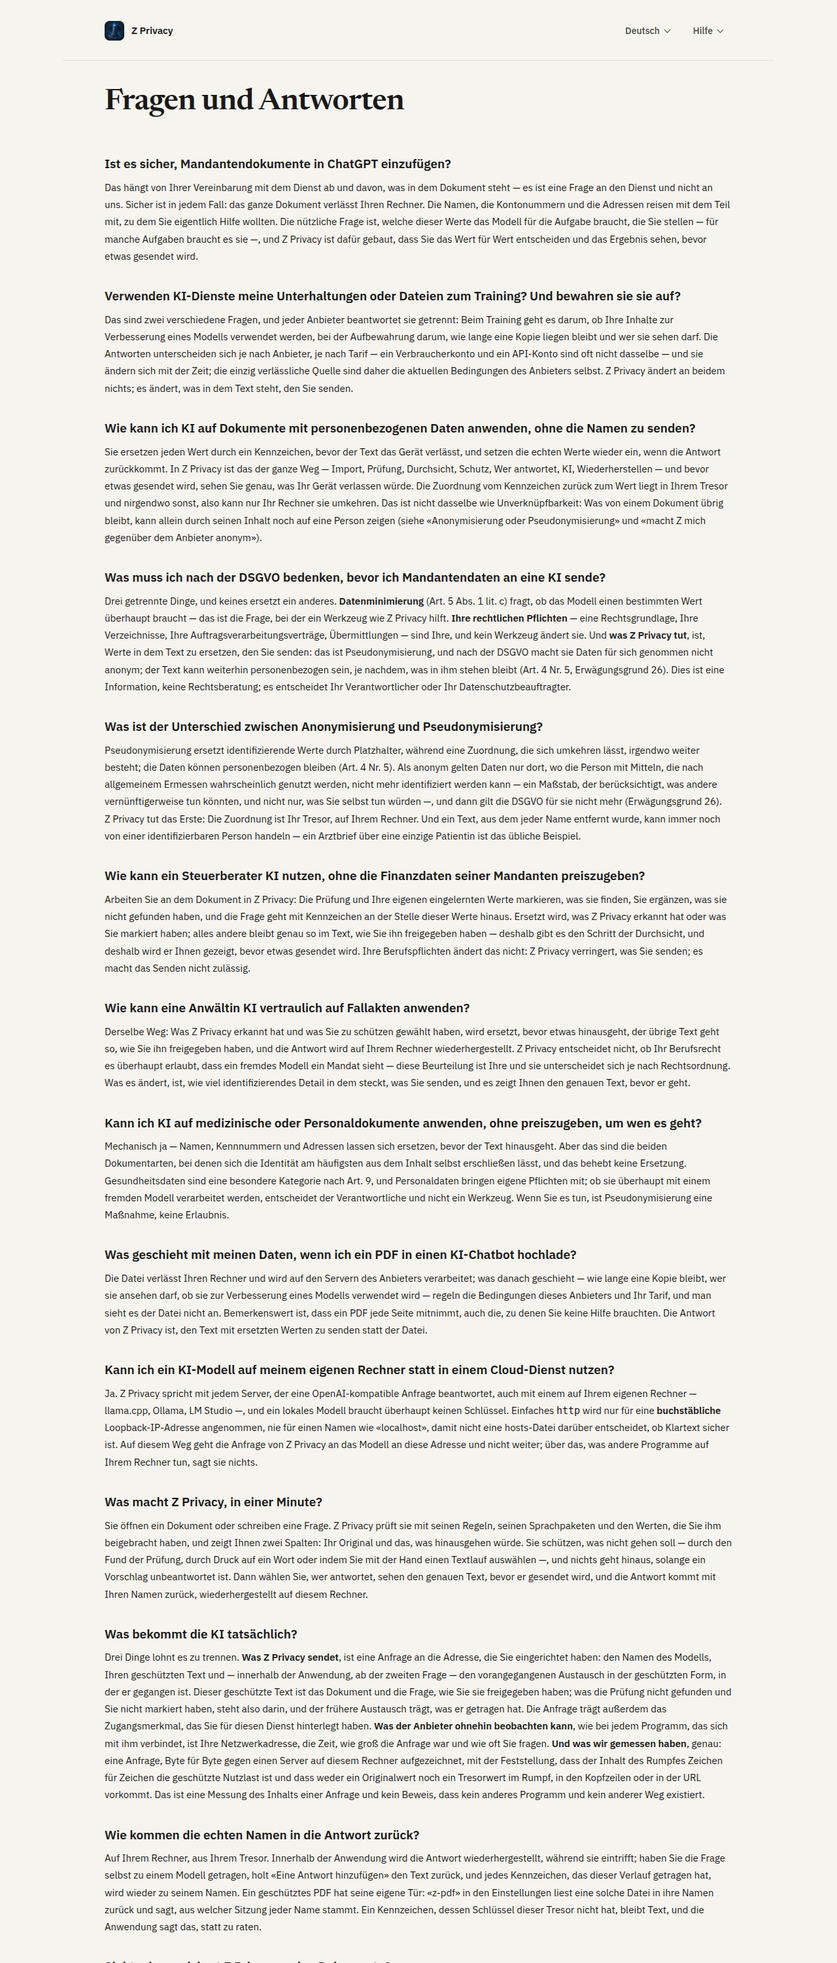
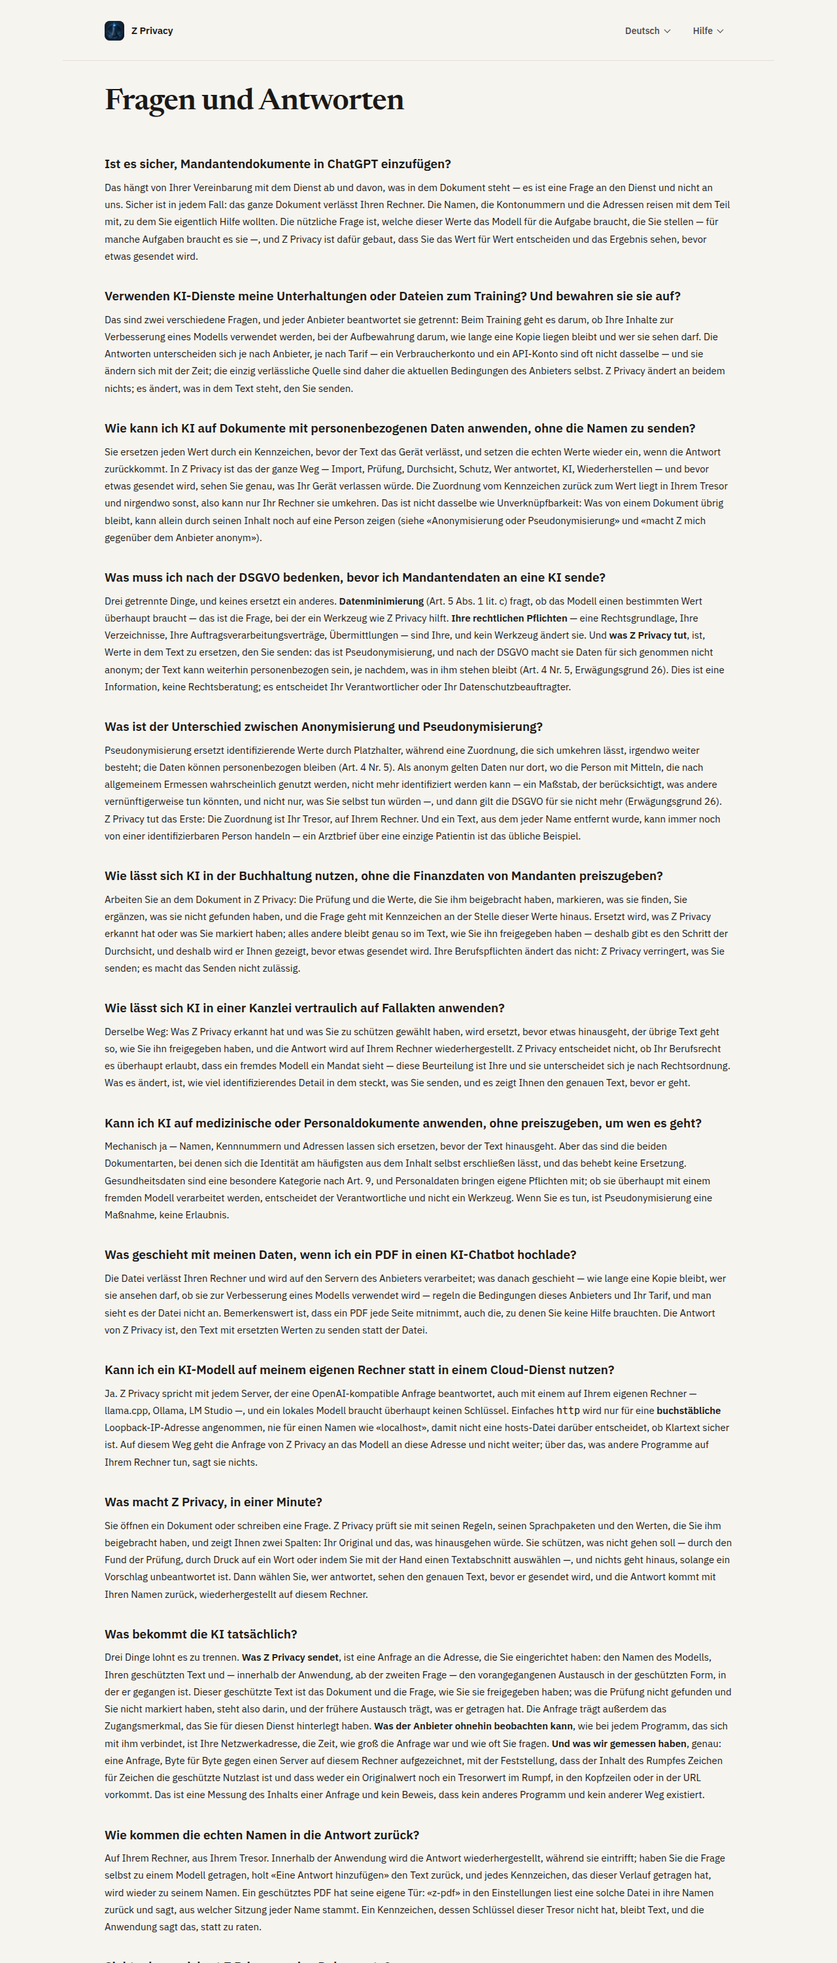
118 · the lead's German rulings: «Prüfung» is the scan, a gate is a Gate
He read the German in full against the app's own .arb and ruled. Four fixes,
his words, and the Arabic headings untouched while the owner decides them.

1 · ONE WORD, TWO MEANINGS — the same fault as the Arabic «تعمية», caught a
second time in a second language. «Prüfung» was the SCAN in Q3/Q6/Q11/Q12/Q19,
matching the app's «Wird geprüft…», and the GATE in Q23. Q23 now says «das
**Gate**», glossed at its first mention as «eine Prüfregel, die den Quelltext
liest». «Formprüfung» stays, because the English names a shape check
separately too.

2 · «eingelernt» → «beigebracht», the app's own word («Werte, die ich
beigebracht habe»). ONE occurrence, not two — I looked for the second and
there is none: Q11, Q15 and Q19 already said «beigebracht». Said here rather
than quietly fixing one and reporting two.

And a note on how that one was fixed: a bare swap gives «Ihre eigenen
beigebrachten Werte», which no one writes. It reads «die Werte, die Sie ihm
beigebracht haben», which is the app's own shape. Two words beyond the
ruling, and his to undo.

3 · Q11 «Textlauf» → «Textabschnitt».
4 · The Q6 and Q7 headings are his, verbatim: the gender is gone and the
accountant is no longer narrowed to a tax adviser. Their ANSWERS were checked
for the same fault and have none — both address «Sie» throughout and name no
profession in a gendered noun.

AND A GENERATOR FAULT THE RULINGS EXPOSED. The page builder held its own copy
[…]

Changed region(s): [[0.125, 0.434, 0.875, 0.527]]

diff --git a/site/de/faq/index.html b/site/de/faq/index.html
@@ -73,15 +73,15 @@
     },
     {
       "@type": "Question",
-      "name": "Wie kann ein Steuerberater KI nutzen, ohne die Finanzdaten seiner Mandanten preiszugeben?",
+      "name": "Wie lässt sich KI in der Buchhaltung nutzen, ohne die Finanzdaten von Mandanten preiszugeben?",
       "acceptedAnswer": {
         "@type": "Answer",
-        "text": "Arbeiten Sie an dem Dokument in Z Privacy: Die Prüfung und Ihre eigenen eingelernten Werte markieren, was sie finden, Sie ergänzen, was sie nicht gefunden haben, und die Frage geht mit Kennzeichen an der Stelle dieser Werte hinaus. Ersetzt wird, was Z Privacy erkannt hat oder was Sie markiert haben; alles andere bleibt genau so im Text, wie Sie ihn freigegeben haben — deshalb gibt es den Schritt der Durchsicht, und deshalb wird er Ihnen gezeigt, bevor etwas gesendet wird. Ihre Berufspflichten ändert das nicht: Z Privacy verringert, was Sie senden; es macht das Senden nicht zulässig."
+        "text": "Arbeiten Sie an dem Dokument in Z Privacy: Die Prüfung und die Werte, die Sie ihm beigebracht haben, markieren, was sie finden, Sie ergänzen, was sie nicht gefunden haben, und die Frage geht mit Kennzeichen an der Stelle dieser Werte hinaus. Ersetzt wird, was Z Privacy erkannt hat oder was Sie markiert haben; alles andere bleibt genau so im Text, wie Sie ihn freigegeben haben — deshalb gibt es den Schritt der Durchsicht, und deshalb wird er Ihnen gezeigt, bevor etwas gesendet wird. Ihre Berufspflichten ändert das nicht: Z Privacy verringert, was Sie senden; es macht das Senden nicht zulässig."
       }
     },
     {
       "@type": "Question",
-      "name": "Wie kann eine Anwältin KI vertraulich auf Fallakten anwenden?",
+      "name": "Wie lässt sich KI in einer Kanzlei vertraulich auf Fallakten anwenden?",
       "acceptedAnswer": {
         "@type": "Answer",
         "text": "Derselbe Weg: Was Z Privacy erkannt hat und was Sie zu schützen gewählt haben, wird ersetzt, bevor etwas hinausgeht, der übrige Text geht so, wie Sie ihn freigegeben haben, und die Antwort wird auf Ihrem Rechner wiederhergestellt. Z Privacy entscheidet nicht, ob Ihr Berufsrecht es überhaupt erlaubt, dass ein fremdes Modell ein Mandat sieht — diese Beurteilung ist Ihre und sie unterscheidet sich je nach Rechtsordnung. Was es ändert, ist, wie viel identifizierendes Detail in dem steckt, was Sie senden, und es zeigt Ihnen den genauen Text, bevor er geht."
@@ -116,7 +116,7 @@
       "name": "Was macht Z Privacy, in einer Minute?",
       "acceptedAnswer": {
         "@type": "Answer",
-        "text": "Sie öffnen ein Dokument oder schreiben eine Frage. Z Privacy prüft sie mit seinen Regeln, seinen Sprachpaketen und den Werten, die Sie ihm beigebracht haben, und zeigt Ihnen zwei Spalten: Ihr Original und das, was hinausgehen würde. Sie schützen, was nicht gehen soll — durch den Fund der Prüfung, durch Druck auf ein Wort oder indem Sie mit der Hand einen Textlauf auswählen —, und nichts geht hinaus, solange ein Vorschlag unbeantwortet ist. Dann wählen Sie, wer antwortet, sehen den genauen Text, bevor er gesendet wird, und die Antwort kommt mit Ihren Namen zurück, wiederhergestellt auf diesem Rechner."
+        "text": "Sie öffnen ein Dokument oder schreiben eine Frage. Z Privacy prüft sie mit seinen Regeln, seinen Sprachpaketen und den Werten, die Sie ihm beigebracht haben, und zeigt Ihnen zwei Spalten: Ihr Original und das, was hinausgehen würde. Sie schützen, was nicht gehen soll — durch den Fund der Prüfung, durch Druck auf ein Wort oder indem Sie mit der Hand einen Textabschnitt auswählen —, und nichts geht hinaus, solange ein Vorschlag unbeantwortet ist. Dann wählen Sie, wer antwortet, sehen den genauen Text, bevor er gesendet wird, und die Antwort kommt mit Ihren Namen zurück, wiederhergestellt auf diesem Rechner."
       }
     },
     {
@@ -212,7 +212,7 @@
       "name": "Wie kann ich die Aussagen von Z Privacy selbst prüfen?",
       "acceptedAnswer": {
         "@type": "Answer",
-        "text": "docs/CLAIMS.md führt jede Aussage mit denselben vier Zeilen auf: den Satz, den wir tatsächlich zeigen, was er nicht abdeckt, den Test oder die Prüfung, die ihn belegt, und den Befehl, den Sie selbst ausführen. Es lohnt sich zu wissen, was diese zwei Arten von Beleg sind: Ein Test führt den Code dieses Produkts aus und misst, was er tut, während eine Prüfung den Quelltext liest und seine Form misst — dass es einen Netzwerk-Client gibt, dass die Oberfläche keinen Socket öffnen kann, dass jede Tür einem Gesetz folgt. Eine Formprüfung zeigt, dass der Code die Bedingung erfüllt, die sie prüft; sie ist keine Aufzeichnung des laufenden Programms, und keine Zahl von ihnen ergibt zusammen einen Netzwerkmitschnitt, eine Installation oder ein Sicherheitsaudit — deshalb tragen manche Aussagen in dieser Datei das Wort «unbelegt», statt aus ihr entfernt zu werden."
+        "text": "docs/CLAIMS.md führt jede Aussage mit denselben vier Zeilen auf: den Satz, den wir tatsächlich zeigen, was er nicht abdeckt, den Test oder das Gate — eine Prüfregel, die den Quelltext liest —, das ihn belegt, und den Befehl, den Sie selbst ausführen. Es lohnt sich zu wissen, was diese zwei Arten von Beleg sind: Ein Test führt den Code dieses Produkts aus und misst, was er tut, während das Gate den Quelltext liest und seine Form misst — dass es einen Netzwerk-Client gibt, dass die Oberfläche keinen Socket öffnen kann, dass jede Tür einem Gesetz folgt. Eine Formprüfung zeigt, dass der Code die Bedingung erfüllt, die sie prüft; sie ist keine Aufzeichnung des laufenden Programms, und keine Zahl von ihnen ergibt zusammen einen Netzwerkmitschnitt, eine Installation oder ein Sicherheitsaudit — deshalb tragen manche Aussagen in dieser Datei das Wort «unbelegt», statt aus ihr entfernt zu werden."
       }
     },
     {
@@ -272,11 +272,11 @@
     <p class="a">Pseudonymisierung ersetzt identifizierende Werte durch Platzhalter, während eine Zuordnung, die sich umkehren lässt, irgendwo weiter besteht; die Daten können personenbezogen bleiben (Art. 4 Nr. 5). Als anonym gelten Daten nur dort, wo die Person mit Mitteln, die nach allgemeinem Ermessen wahrscheinlich genutzt werden, nicht mehr identifiziert werden kann — ein Maßstab, der berücksichtigt, was andere vernünftigerweise tun könnten, und nicht nur, was Sie selbst tun würden —, und dann gilt die DSGVO für sie nicht mehr (Erwägungsgrund 26). Z&nbsp;Privacy tut das Erste: Die Zuordnung ist Ihr Tresor, auf Ihrem Rechner. Und ein Text, aus dem jeder Name entfernt wurde, kann immer noch von einer identifizierbaren Person handeln — ein Arztbrief über eine einzige Patientin ist das übliche Beispiel.</p>
   </section>
   <section aria-labelledby="q6">
-    <h2 class="q" id="q6">Wie kann ein Steuerberater KI nutzen, ohne die Finanzdaten seiner Mandanten preiszugeben?</h2>
-    <p class="a">Arbeiten Sie an dem Dokument in Z&nbsp;Privacy: Die Prüfung und Ihre eigenen eingelernten Werte markieren, was sie finden, Sie ergänzen, was sie nicht gefunden haben, und die Frage geht mit Kennzeichen an der Stelle dieser Werte hinaus. Ersetzt wird, was Z&nbsp;Privacy erkannt hat oder was Sie markiert haben; alles andere bleibt genau so im Text, wie Sie ihn freigegeben haben — deshalb gibt es den Schritt der Durchsicht, und deshalb wird er Ihnen gezeigt, bevor etwas gesendet wird. Ihre Berufspflichten ändert das nicht: Z&nbsp;Privacy verringert, was Sie senden; es macht das Senden nicht zulässig.</p>
+    <h2 class="q" id="q6">Wie lässt sich KI in der Buchhaltung nutzen, ohne die Finanzdaten von Mandanten preiszugeben?</h2>
+    <p class="a">Arbeiten Sie an dem Dokument in Z&nbsp;Privacy: Die Prüfung und die Werte, die Sie ihm beigebracht haben, markieren, was sie finden, Sie ergänzen, was sie nicht gefunden haben, und die Frage geht mit Kennzeichen an der Stelle dieser Werte hinaus. Ersetzt wird, was Z&nbsp;Privacy erkannt hat oder was Sie markiert haben; alles andere bleibt genau so im Text, wie Sie ihn freigegeben haben — deshalb gibt es den Schritt der Durchsicht, und deshalb wird er Ihnen gezeigt, bevor etwas gesendet wird. Ihre Berufspflichten ändert das nicht: Z&nbsp;Privacy verringert, was Sie senden; es macht das Senden nicht zulässig.</p>
   </section>
   <section aria-labelledby="q7">
-    <h2 class="q" id="q7">Wie kann eine Anwältin KI vertraulich auf Fallakten anwenden?</h2>
+    <h2 class="q" id="q7">Wie lässt sich KI in einer Kanzlei vertraulich auf Fallakten anwenden?</h2>
     <p class="a">Derselbe Weg: Was Z&nbsp;Privacy erkannt hat und was Sie zu schützen gewählt haben, wird ersetzt, bevor etwas hinausgeht, der übrige Text geht so, wie Sie ihn freigegeben haben, und die Antwort wird auf Ihrem Rechner wiederhergestellt. Z&nbsp;Privacy entscheidet nicht, ob Ihr Berufsrecht es überhaupt erlaubt, dass ein fremdes Modell ein Mandat sieht — diese Beurteilung ist Ihre und sie unterscheidet sich je nach Rechtsordnung. Was es ändert, ist, wie viel identifizierendes Detail in dem steckt, was Sie senden, und es zeigt Ihnen den genauen Text, bevor er geht.</p>
   </section>
   <section aria-labelledby="q8">
@@ -293,7 +293,7 @@
   </section>
   <section aria-labelledby="q11">
     <h2 class="q" id="q11">Was macht Z&nbsp;Privacy, in einer Minute?</h2>
-    <p class="a">Sie öffnen ein Dokument oder schreiben eine Frage. Z&nbsp;Privacy prüft sie mit seinen Regeln, seinen Sprachpaketen und den Werten, die Sie ihm beigebracht haben, und zeigt Ihnen zwei Spalten: Ihr Original und das, was hinausgehen würde. Sie schützen, was nicht gehen soll — durch den Fund der Prüfung, durch Druck auf ein Wort oder indem Sie mit der Hand einen Textlauf auswählen —, und nichts geht hinaus, solange ein Vorschlag unbeantwortet ist. Dann wählen Sie, wer antwortet, sehen den genauen Text, bevor er gesendet wird, und die Antwort kommt mit Ihren Namen zurück, wiederhergestellt auf diesem Rechner.</p>
+    <p class="a">Sie öffnen ein Dokument oder schreiben eine Frage. Z&nbsp;Privacy prüft sie mit seinen Regeln, seinen Sprachpaketen und den Werten, die Sie ihm beigebracht haben, und zeigt Ihnen zwei Spalten: Ihr Original und das, was hinausgehen würde. Sie schützen, was nicht gehen soll — durch den Fund der Prüfung, durch Druck auf ein Wort oder indem Sie mit der Hand einen Textabschnitt auswählen —, und nichts geht hinaus, solange ein Vorschlag unbeantwortet ist. Dann wählen Sie, wer antwortet, sehen den genauen Text, bevor er gesendet wird, und die Antwort kommt mit Ihren Namen zurück, wiederhergestellt auf diesem Rechner.</p>
   </section>
   <section aria-labelledby="q12">
     <h2 class="q" id="q12">Was bekommt die KI tatsächlich?</h2>
@@ -341,7 +341,7 @@
   </section>
   <section aria-labelledby="q23">
     <h2 class="q" id="q23">Wie kann ich die Aussagen von Z&nbsp;Privacy selbst prüfen?</h2>
-    <p class="a"><code>docs/CLAIMS.md</code> führt jede Aussage mit denselben vier Zeilen auf: den Satz, den wir tatsächlich zeigen, was er <b>nicht</b> abdeckt, den Test oder die Prüfung, die ihn belegt, und den Befehl, den Sie selbst ausführen. Es lohnt sich zu wissen, was diese zwei Arten von Beleg sind: Ein <b>Test</b> führt den Code dieses Produkts aus und misst, was er tut, während eine <b>Prüfung</b> den Quelltext liest und seine Form misst — dass es einen Netzwerk-Client gibt, dass die Oberfläche keinen Socket öffnen kann, dass jede Tür einem Gesetz folgt. Eine Formprüfung zeigt, dass der Code die Bedingung erfüllt, die sie prüft; sie ist keine Aufzeichnung des laufenden Programms, und keine Zahl von ihnen ergibt zusammen einen Netzwerkmitschnitt, eine Installation oder ein Sicherheitsaudit — deshalb tragen manche Aussagen in dieser Datei das Wort «unbelegt», statt aus ihr entfernt zu werden.</p>
+    <p class="a"><code>docs/CLAIMS.md</code> führt jede Aussage mit denselben vier Zeilen auf: den Satz, den wir tatsächlich zeigen, was er <b>nicht</b> abdeckt, den Test oder das <b>Gate</b> — eine Prüfregel, die den Quelltext liest —, das ihn belegt, und den Befehl, den Sie selbst ausführen. Es lohnt sich zu wissen, was diese zwei Arten von Beleg sind: Ein <b>Test</b> führt den Code dieses Produkts aus und misst, was er tut, während das <b>Gate</b> den Quelltext liest und seine Form misst — dass es einen Netzwerk-Client gibt, dass die Oberfläche keinen Socket öffnen kann, dass jede Tür einem Gesetz folgt. Eine Formprüfung zeigt, dass der Code die Bedingung erfüllt, die sie prüft; sie ist keine Aufzeichnung des laufenden Programms, und keine Zahl von ihnen ergibt zusammen einen Netzwerkmitschnitt, eine Installation oder ein Sicherheitsaudit — deshalb tragen manche Aussagen in dieser Datei das Wort «unbelegt», statt aus ihr entfernt zu werden.</p>
   </section>
   <section aria-labelledby="q24">
     <h2 class="q" id="q24">Auf welchen Betriebssystemen läuft es, und warum warnt mich Windows?</h2>

diff --git a/scripts/check_the_absolutes.py b/scripts/check_the_absolutes.py
@@ -269,7 +269,7 @@ MIRROR_DE = {
  'q21-nothing-subscribe': "nichts zu abonnieren",
  'q21-your-own-computer': "ein Modell, das auf Ihrem eigenen Rechner läuft, kostet überhaupt nichts",
  'q22-ask-nobody': "und fragen Sie niemanden",
- 'q23-lists-every-claim': u"`docs/CLAIMS.md` führt jede Aussage mit denselben vier Zeilen auf: den Satz, den wir tatsächlich zeigen, was er **nicht** abdeckt, den Test oder die Prüfung, die ihn belegt, und den Befehl, den Sie selbst ausführen.",
+ 'q23-lists-every-claim': u"`docs/CLAIMS.md` führt jede Aussage mit denselben vier Zeilen auf: den Satz, den wir tatsächlich zeigen, was er **nicht** abdeckt, den Test oder das **Gate** — eine Prüfregel, die den Quelltext liest —, das ihn belegt, und den Befehl, den Sie selbst ausführen.",
  'q23-interface-cannot-open': "dass die Oberfläche keinen Socket öffnen kann",
  'q23-every-door-obeys': "dass jede Tür einem Gesetz folgt",
  'q24-nothing-has-signed': u"Unter Windows zeigt der erste Start eine blaue Seite «Der Computer wurde durch Windows geschützt», weil dieses Installationsprogramm von nichts signiert ist: Diese Seite bedeutet, dass Windows keine Grundlage hat, die Datei als vertrauenswürdig zu behandeln, und nicht, dass es sie geprüft und für sicher oder unsicher befunden hätte.",

diff --git a/docs/faq-translation-draft.md b/docs/faq-translation-draft.md
@@ -108,7 +108,7 @@ English one means is a judgement, and for Arabic the owner is the reader.
 
 **EN (approved).** Work on the document inside Z Privacy: the scan and your own taught values mark what they find, you add anything they did not, and the question goes out with tokens in place of those values. What is replaced is what Z Privacy detected or you marked; everything else stays in the text exactly as you approved it, which is why the review step exists and why it is shown to you before anything is sent. Your professional obligations are not changed by this: Z Privacy reduces what you send, it does not make the sending permissible.
 
-**DE (draft).** Arbeiten Sie an dem Dokument in Z Privacy: Die Prüfung und Ihre eigenen eingelernten Werte markieren, was sie finden, Sie ergänzen, was sie nicht gefunden haben, und die Frage geht mit Kennzeichen an der Stelle dieser Werte hinaus. Ersetzt wird, was Z Privacy erkannt hat oder was Sie markiert haben; alles andere bleibt genau so im Text, wie Sie ihn freigegeben haben — deshalb gibt es den Schritt der Durchsicht, und deshalb wird er Ihnen gezeigt, bevor etwas gesendet wird. Ihre Berufspflichten ändert das nicht: Z Privacy verringert, was Sie senden; es macht das Senden nicht zulässig.
+**DE (draft).** Arbeiten Sie an dem Dokument in Z Privacy: Die Prüfung und die Werte, die Sie ihm beigebracht haben, markieren, was sie finden, Sie ergänzen, was sie nicht gefunden haben, und die Frage geht mit Kennzeichen an der Stelle dieser Werte hinaus. Ersetzt wird, was Z Privacy erkannt hat oder was Sie markiert haben; alles andere bleibt genau so im Text, wie Sie ihn freigegeben haben — deshalb gibt es den Schritt der Durchsicht, und deshalb wird er Ihnen gezeigt, bevor etwas gesendet wird. Ihre Berufspflichten ändert das nicht: Z Privacy verringert, was Sie senden; es macht das Senden nicht zulässig.
 
 **AR (draft).** <div dir="rtl" lang="ar">
 
@@ -178,7 +178,7 @@ English one means is a judgement, and for Arabic the owner is the reader.
 
 **EN (approved).** You open a document or write a question. Z Privacy scans it with its rules, its language packs and the values you have taught it, and shows you two columns: your original, and what would leave. You protect what should not go — by the scan's own finding, by pressing a word, or by selecting a run of text with your hand — and nothing leaves while a suggestion is unanswered. Then you choose who answers, see the exact text before it is sent, and the answer comes back with your names restored on this machine.
 
-**DE (draft).** Sie öffnen ein Dokument oder schreiben eine Frage. Z Privacy prüft sie mit seinen Regeln, seinen Sprachpaketen und den Werten, die Sie ihm beigebracht haben, und zeigt Ihnen zwei Spalten: Ihr Original und das, was hinausgehen würde. Sie schützen, was nicht gehen soll — durch den Fund der Prüfung, durch Druck auf ein Wort oder indem Sie mit der Hand einen Textlauf auswählen —, und nichts geht hinaus, solange ein Vorschlag unbeantwortet ist. Dann wählen Sie, wer antwortet, sehen den genauen Text, bevor er gesendet wird, und die Antwort kommt mit Ihren Namen zurück, wiederhergestellt auf diesem Rechner.
+**DE (draft).** Sie öffnen ein Dokument oder schreiben eine Frage. Z Privacy prüft sie mit seinen Regeln, seinen Sprachpaketen und den Werten, die Sie ihm beigebracht haben, und zeigt Ihnen zwei Spalten: Ihr Original und das, was hinausgehen würde. Sie schützen, was nicht gehen soll — durch den Fund der Prüfung, durch Druck auf ein Wort oder indem Sie mit der Hand einen Textabschnitt auswählen —, und nichts geht hinaus, solange ein Vorschlag unbeantwortet ist. Dann wählen Sie, wer antwortet, sehen den genauen Text, bevor er gesendet wird, und die Antwort kommt mit Ihren Namen zurück, wiederhergestellt auf diesem Rechner.
 
 **AR (draft).** <div dir="rtl" lang="ar">
 
@@ -346,7 +346,7 @@ English one means is a judgement, and for Arabic the owner is the reader.
 
 **EN (approved).** `docs/CLAIMS.md` lists every claim with the same four lines each: the sentence we actually show, what it does **not** cover, the test or gate that proves it, and the command you run yourself. It is worth knowing what those two kinds of proof are: a **test** runs this product's code and measures what it does, while a **gate** reads the source and measures its shape — that there is one network client, that the interface cannot open a socket, that every door obeys a law. A shape check shows that the code satisfies the constraint it checks; it is not a recording of the program running, and no number of them adds up to a network capture, an installation or a security audit — which is why some claims in that file carry the word «unproven» rather than being removed from it.
 
-**DE (draft).** `docs/CLAIMS.md` führt jede Aussage mit denselben vier Zeilen auf: den Satz, den wir tatsächlich zeigen, was er **nicht** abdeckt, den Test oder die Prüfung, die ihn belegt, und den Befehl, den Sie selbst ausführen. Es lohnt sich zu wissen, was diese zwei Arten von Beleg sind: Ein **Test** führt den Code dieses Produkts aus und misst, was er tut, während eine **Prüfung** den Quelltext liest und seine Form misst — dass es einen Netzwerk-Client gibt, dass die Oberfläche keinen Socket öffnen kann, dass jede Tür einem Gesetz folgt. Eine Formprüfung zeigt, dass der Code die Bedingung erfüllt, die sie prüft; sie ist keine Aufzeichnung des laufenden Programms, und keine Zahl von ihnen ergibt zusammen einen Netzwerkmitschnitt, eine Installation oder ein Sicherheitsaudit — deshalb tragen manche Aussagen in dieser Datei das Wort «unbelegt», statt aus ihr entfernt zu werden.
+**DE (draft).** `docs/CLAIMS.md` führt jede Aussage mit denselben vier Zeilen auf: den Satz, den wir tatsächlich zeigen, was er **nicht** abdeckt, den Test oder das **Gate** — eine Prüfregel, die den Quelltext liest —, das ihn belegt, und den Befehl, den Sie selbst ausführen. Es lohnt sich zu wissen, was diese zwei Arten von Beleg sind: Ein **Test** führt den Code dieses Produkts aus und misst, was er tut, während das **Gate** den Quelltext liest und seine Form misst — dass es einen Netzwerk-Client gibt, dass die Oberfläche keinen Socket öffnen kann, dass jede Tür einem Gesetz folgt. Eine Formprüfung zeigt, dass der Code die Bedingung erfüllt, die sie prüft; sie ist keine Aufzeichnung des laufenden Programms, und keine Zahl von ihnen ergibt zusammen einen Netzwerkmitschnitt, eine Installation oder ein Sicherheitsaudit — deshalb tragen manche Aussagen in dieser Datei das Wort «unbelegt», statt aus ihr entfernt zu werden.
 
 **AR (draft).** <div dir="rtl" lang="ar">
 
@@ -421,12 +421,12 @@ can hold the pages to them.
 
 **Q6.** How can an accountant use AI without exposing clients' financial data?
 
-- **DE** — Wie kann ein Steuerberater KI nutzen, ohne die Finanzdaten seiner Mandanten preiszugeben?
+- **DE** — Wie lässt sich KI in der Buchhaltung nutzen, ohne die Finanzdaten von Mandanten preiszugeben?
 - **AR** — <span dir="rtl" lang="ar">كيف يستعمل المحاسبُ الذكاءَ الاصطناعيّ دون أن يكشف بيانات عملائه الماليّة؟</span>
 
 **Q7.** How can a lawyer use AI on case files confidentially?
 
-- **DE** — Wie kann eine Anwältin KI vertraulich auf Fallakten anwenden?
+- **DE** — Wie lässt sich KI in einer Kanzlei vertraulich auf Fallakten anwenden?
 - **AR** — <span dir="rtl" lang="ar">كيف تستعمل المحاميةُ الذكاءَ الاصطناعيّ على ملفّات القضايا بسرّيّة؟</span>
 
 **Q8.** Can I use AI on medical or HR documents without revealing who they are about?
